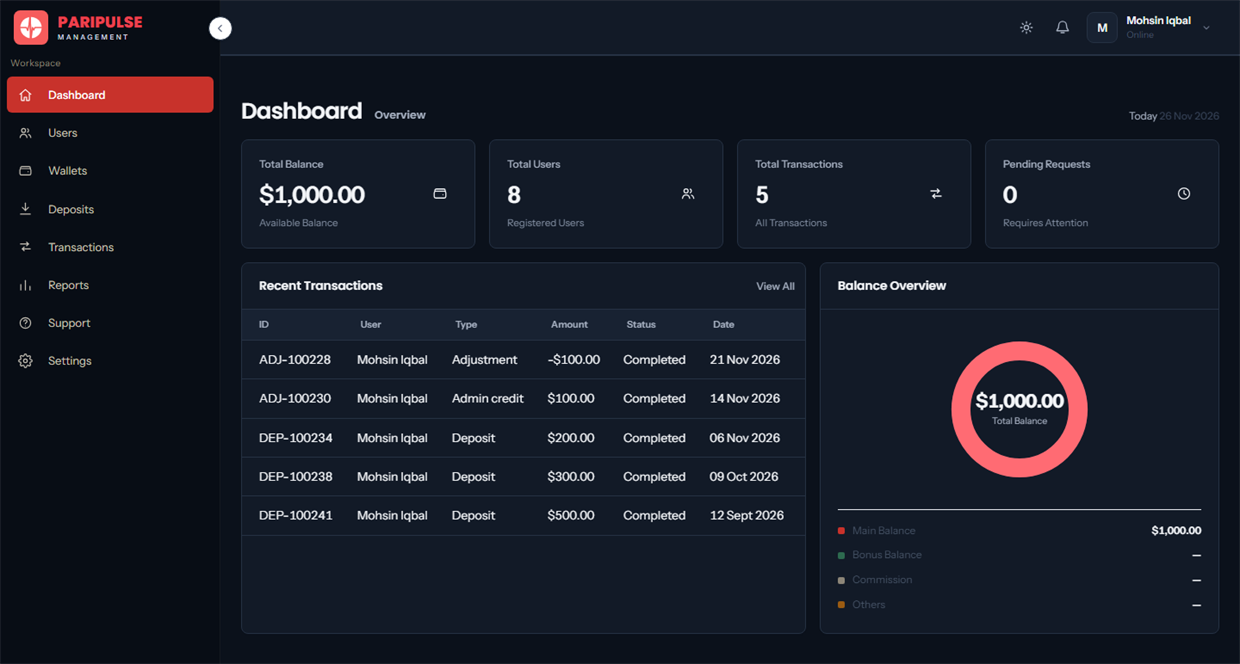
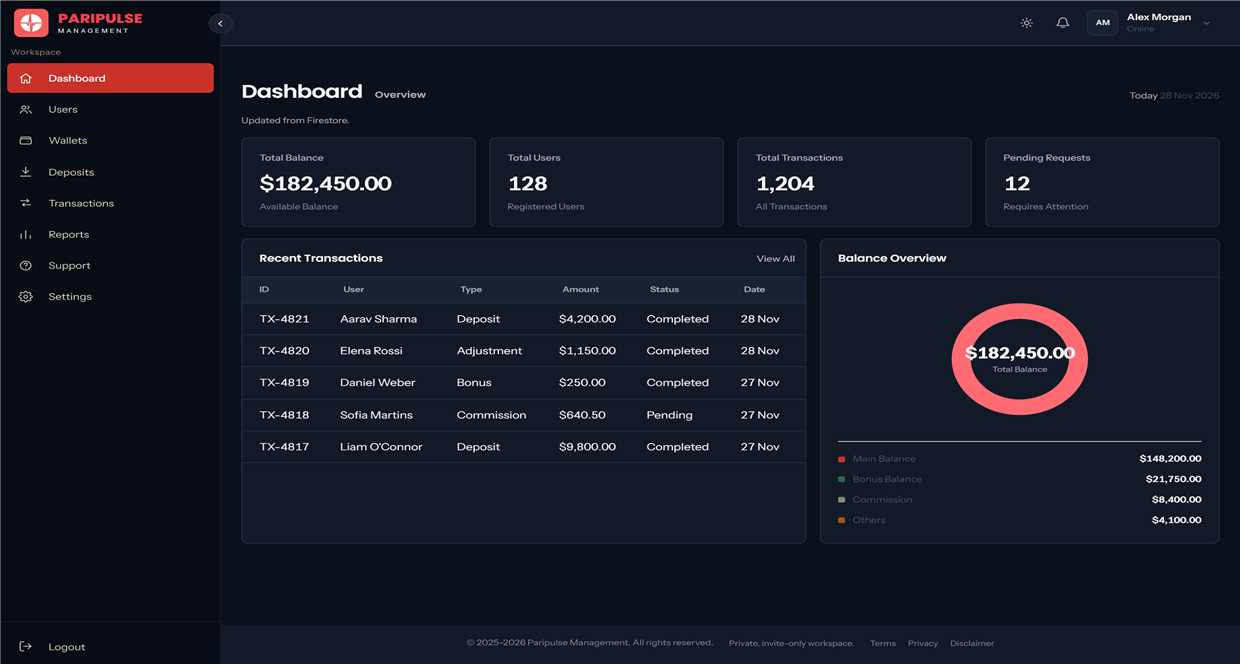
Refresh the homepage dashboard preview with populated data

diff --git a/index.html b/index.html
@@ -107,8 +107,8 @@
         <div class="hero__visual" aria-hidden="true">
           <div class="preview preview--snapshot">
             <!-- Captured from the demo dashboard at 1440x900, cropped above the footer. -->
-            <img class="preview__snapshot preview__snapshot--light" src="assets/home/dashboard-preview.png" width="1240" height="664" alt="" decoding="async" />
-            <img class="preview__snapshot preview__snapshot--dark" src="assets/home/dashboard-preview-dark.png" width="1240" height="664" alt="" decoding="async" />
+            <img class="preview__snapshot preview__snapshot--light" src="assets/home/dashboard-preview.png?v=20261128" width="1240" height="664" alt="" decoding="async" />
+            <img class="preview__snapshot preview__snapshot--dark" src="assets/home/dashboard-preview-dark.png?v=20261128" width="1240" height="664" alt="" decoding="async" />
           </div>
         </div>
       </div>
